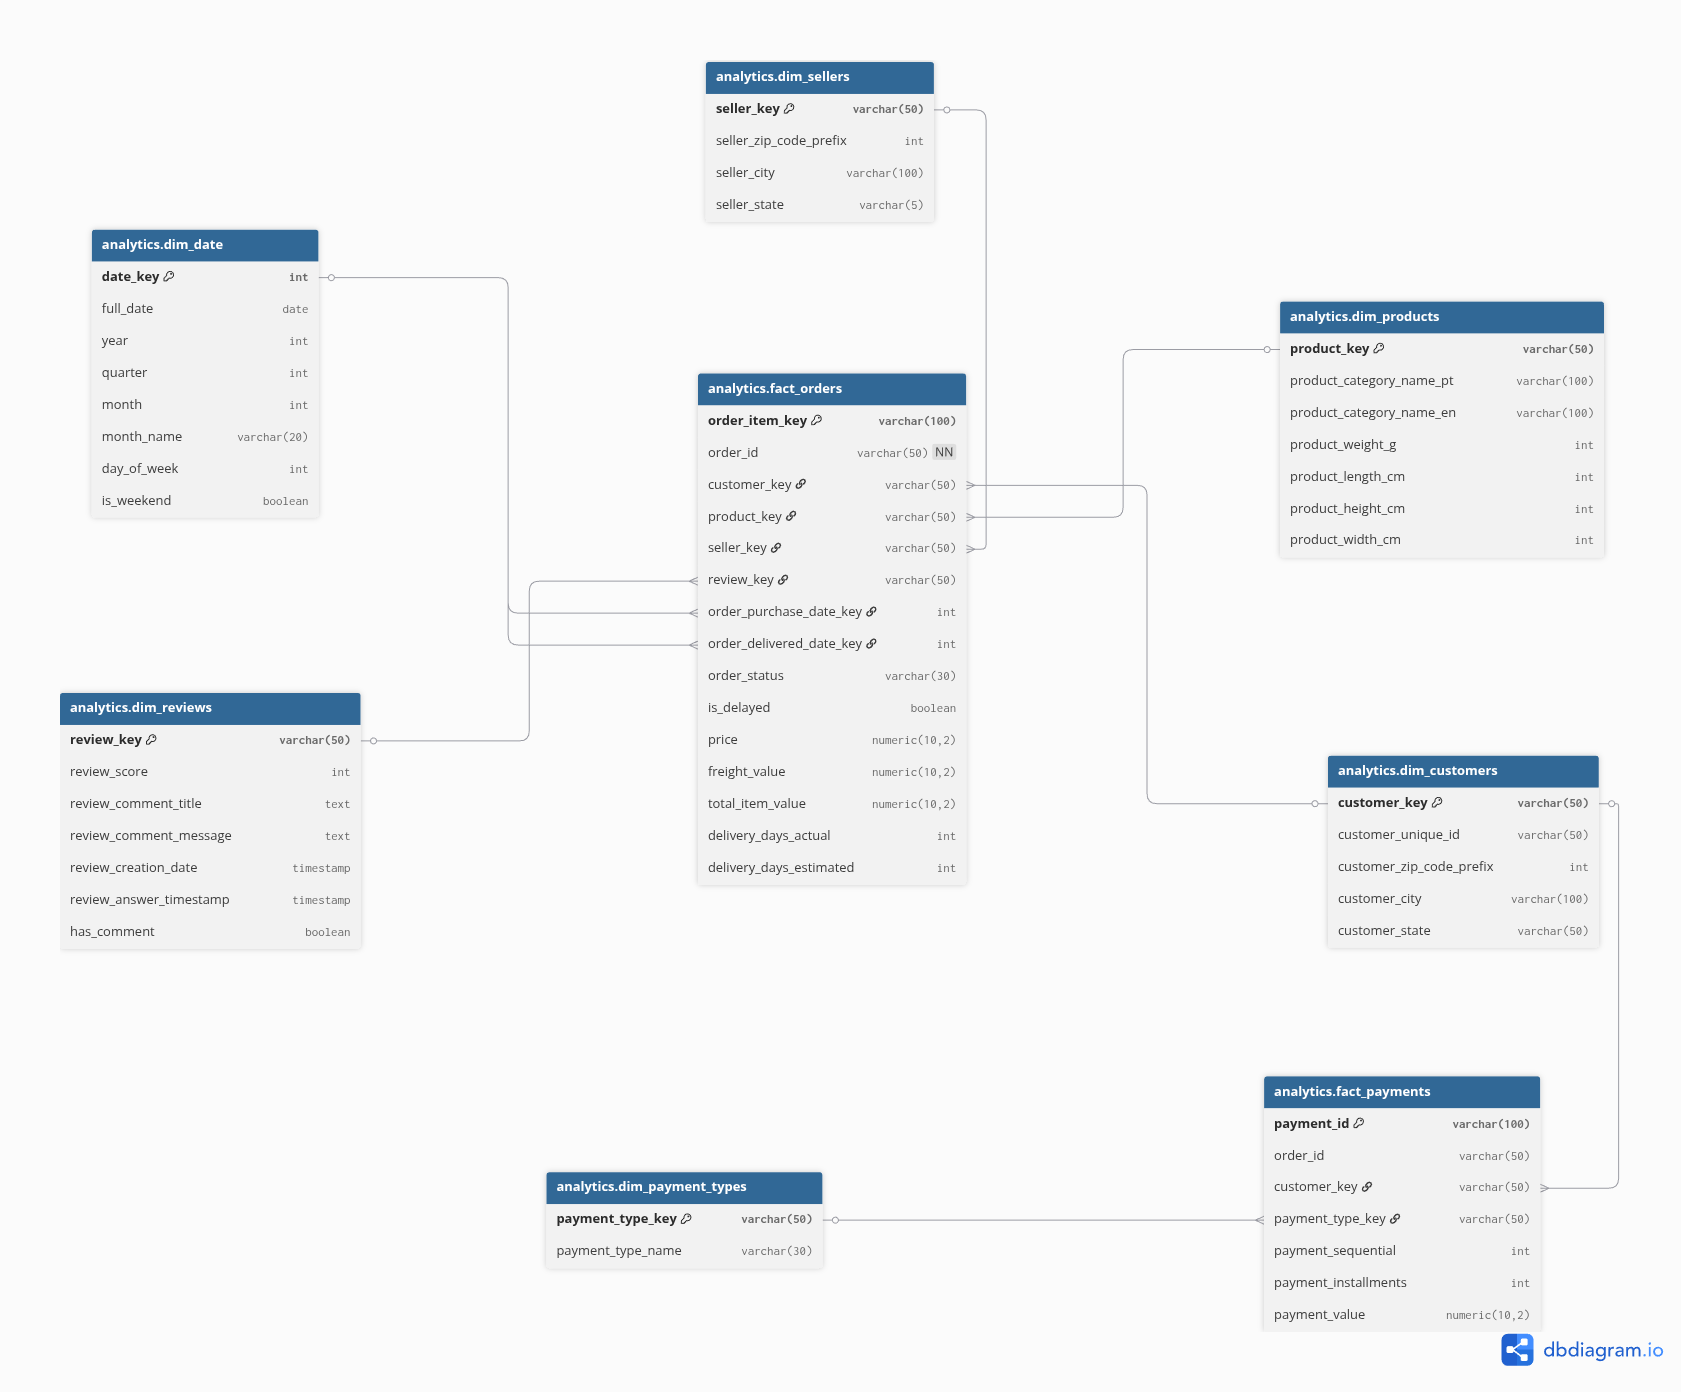
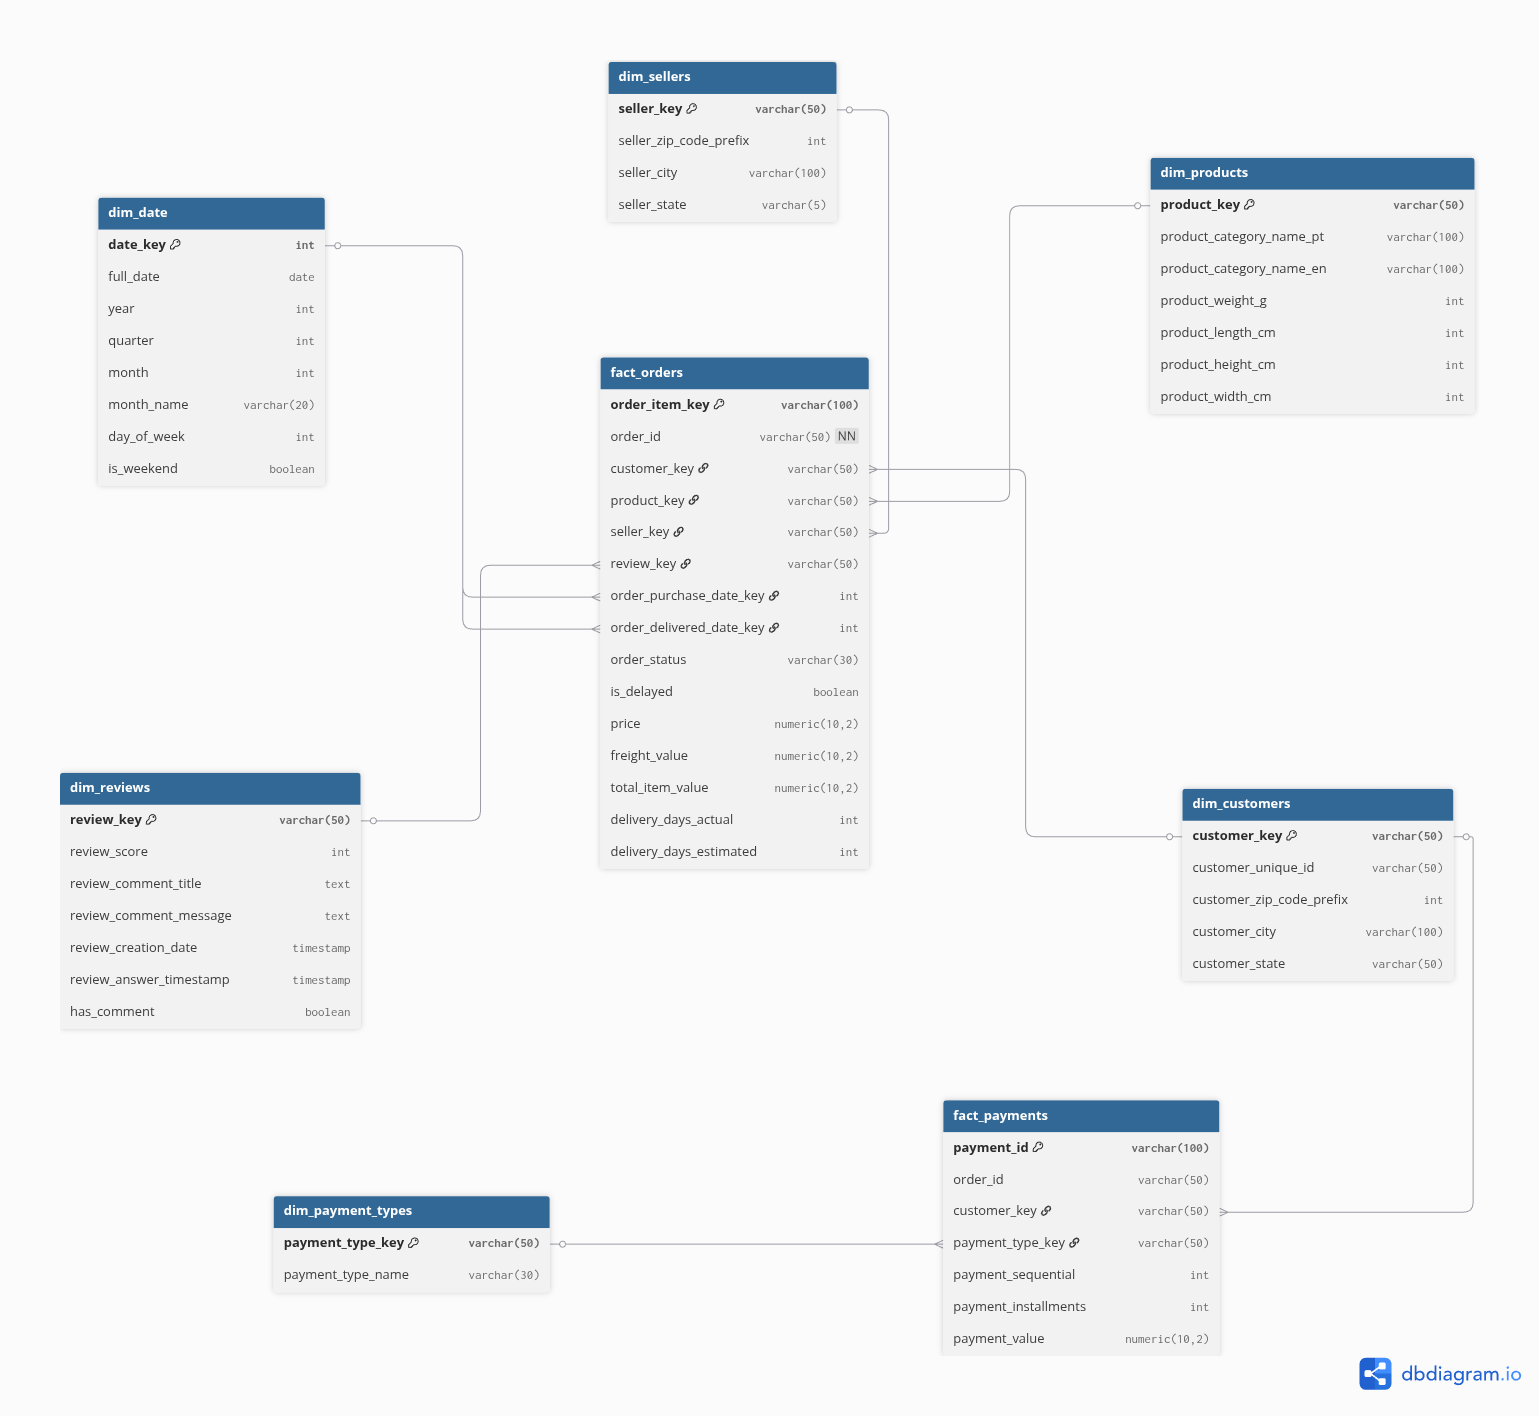
Bỏ cấu trúc thư mục dự án trong README

diff --git a/README.md b/README.md
@@ -1,6 +1,7 @@
-# Olist E-commerce Data Pipeline (Medallion Architecture)
+# Olist E-commerce Data Pipeline
 
 Hệ thống Data Pipeline xử lý, làm sạch và mô hình hóa dữ liệu Thương mại điện tử Olist (Brazil) theo chuẩn kiến trúc **Medallion (Bronze ➔ Silver ➔ Gold)**. Dự án sử dụng **PostgreSQL** làm Data Warehouse, **Python CLI** xử lý logic và **Makefile** điều khiển luồng tự động.
+![Mô tả dataset Olist](images/olist.png)
 
 ---
 
@@ -35,29 +36,7 @@ Dữ liệu được tổ chức và biến đổi qua 3 Schemas riêng biệt t
 
 ---
 
-## Cấu trúc Thư mục Dự án
-
-```text
-Olist/
-├── sql/
-│   ├── create_bronze_tables.sql # DDL tạo bảng tầng Bronze
-│   ├── create_silver_tables.sql # DDL tạo bảng tầng Silver
-│   └── create_gold_tables.sql   # DDL tạo bảng tầng Gold
-├── src/
-│   ├── db_connection.py         # Cấu hình kết nối PostgreSQL
-│   ├── load_to_bronze.py        # Pipeline nạp CSV -> Bronze
-│   ├── bronze_to_silver.py      # Pipeline làm sạch Bronze -> Silver
-│   └── silver_to_gold.py        # Pipeline mô hình hóa Silver -> Gold
-├── .env                         # Khai báo biến môi trường 
-├── .gitignore                   # Bỏ qua venv, .env, cache
-├── Makefile                     # Điều khiển và tự động hóa Pipeline
-├── requirements.txt             # Danh sách các thư viện Python
-└── README.md                    # Tài liệu hướng dẫn dự án
-```
-
----
-
-## Cách vận hành dự án
+## Cách vận hành pipeline
 
 Thực hiện theo các bước dưới đây để khởi tạo và vận hành toàn bộ Data Pipeline.
 
@@ -69,7 +48,7 @@ https://www.kaggle.com/datasets/olistbr/brazilian-ecommerce
 
 Sau khi tải về, đặt toàn bộ file dữ liệu vào thư mục `data/` rồi giải nén tại đó. Thư mục `data/` sẽ chứa các file CSV nguồn dùng cho pipeline.
 
-![Mô tả dataset Olist](images/olist.png)
+
 
 ### 2) Khởi tạo môi trường ảo và cài đặt thư viện
 
@@ -120,6 +99,5 @@ Lệnh này sẽ lần lượt:
 4. Biến đổi dữ liệu từ Silver sang Gold.
 
 ### Lưu ý
-
 - Đảm bảo PostgreSQL đang chạy trước khi thực thi `make run-all`.
 - Nếu cần tạo lại schema từ đầu, có thể chạy riêng `make init`.
